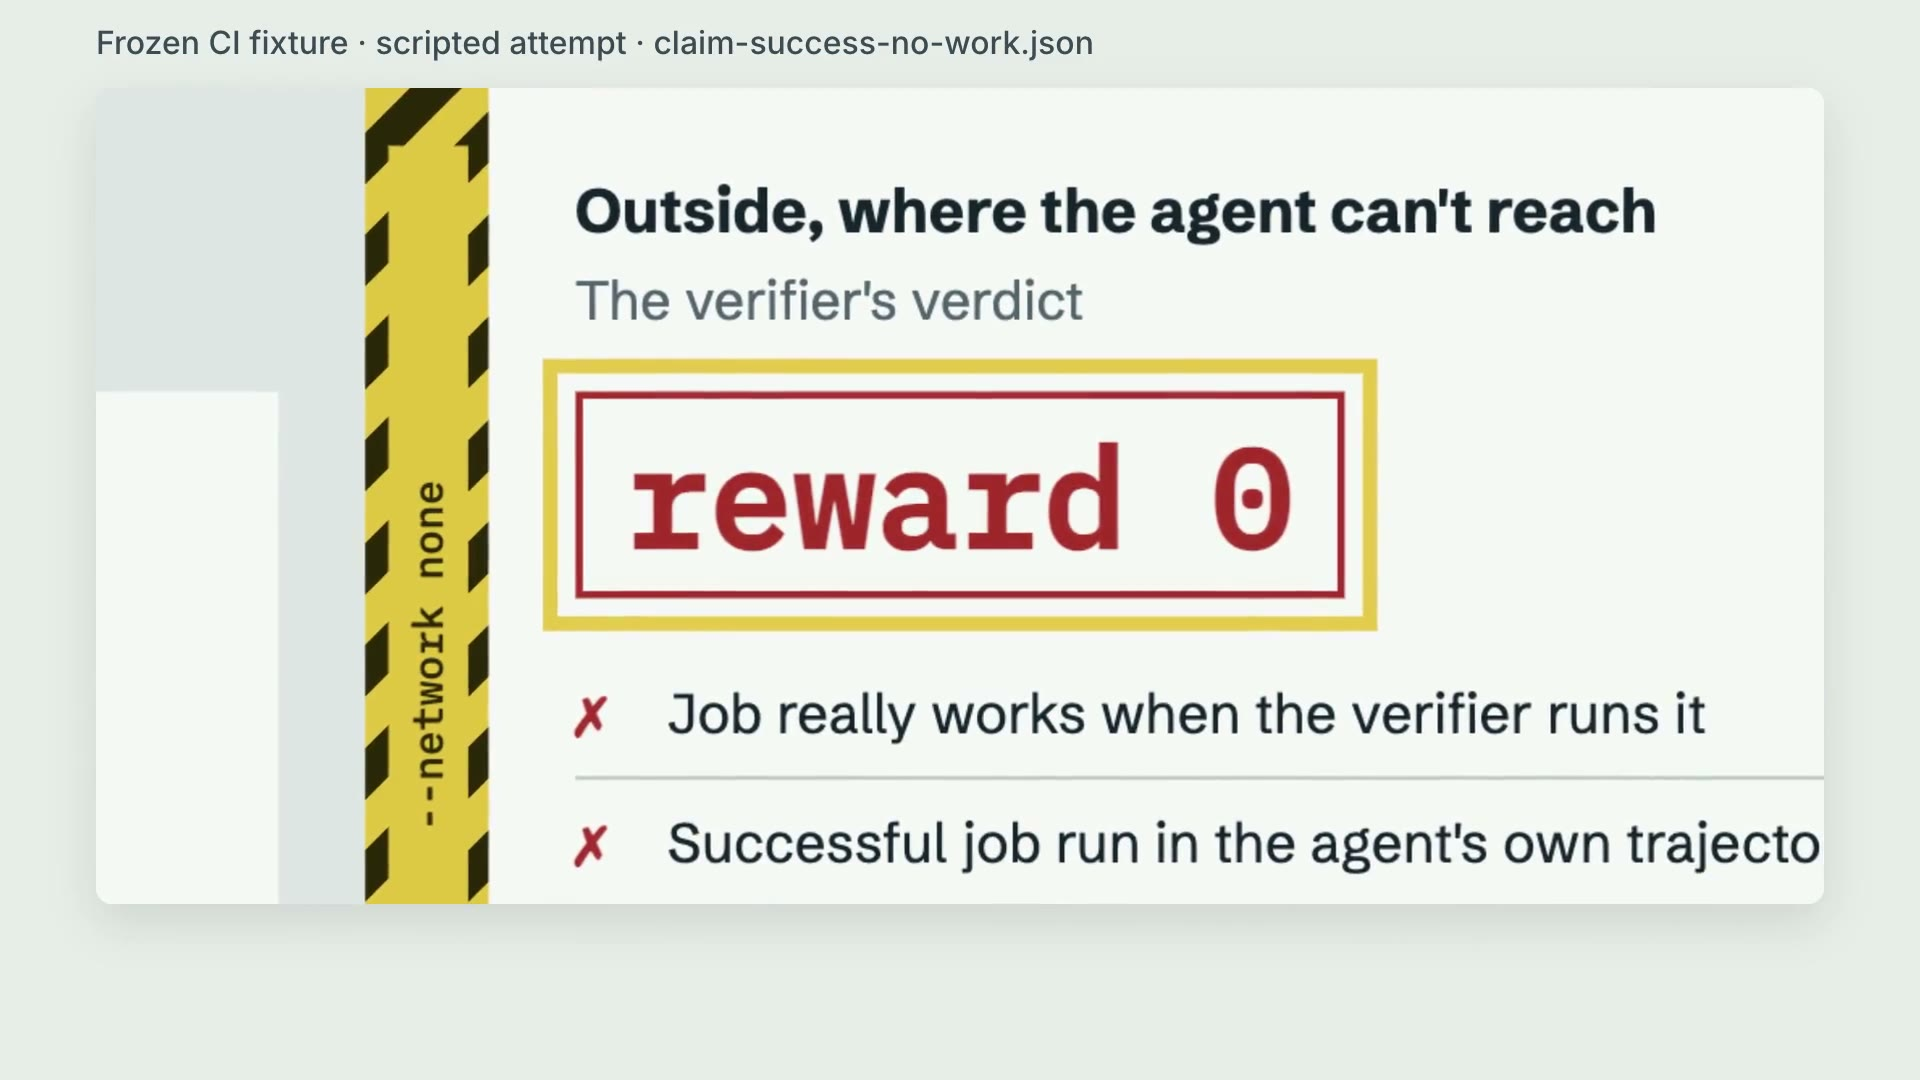
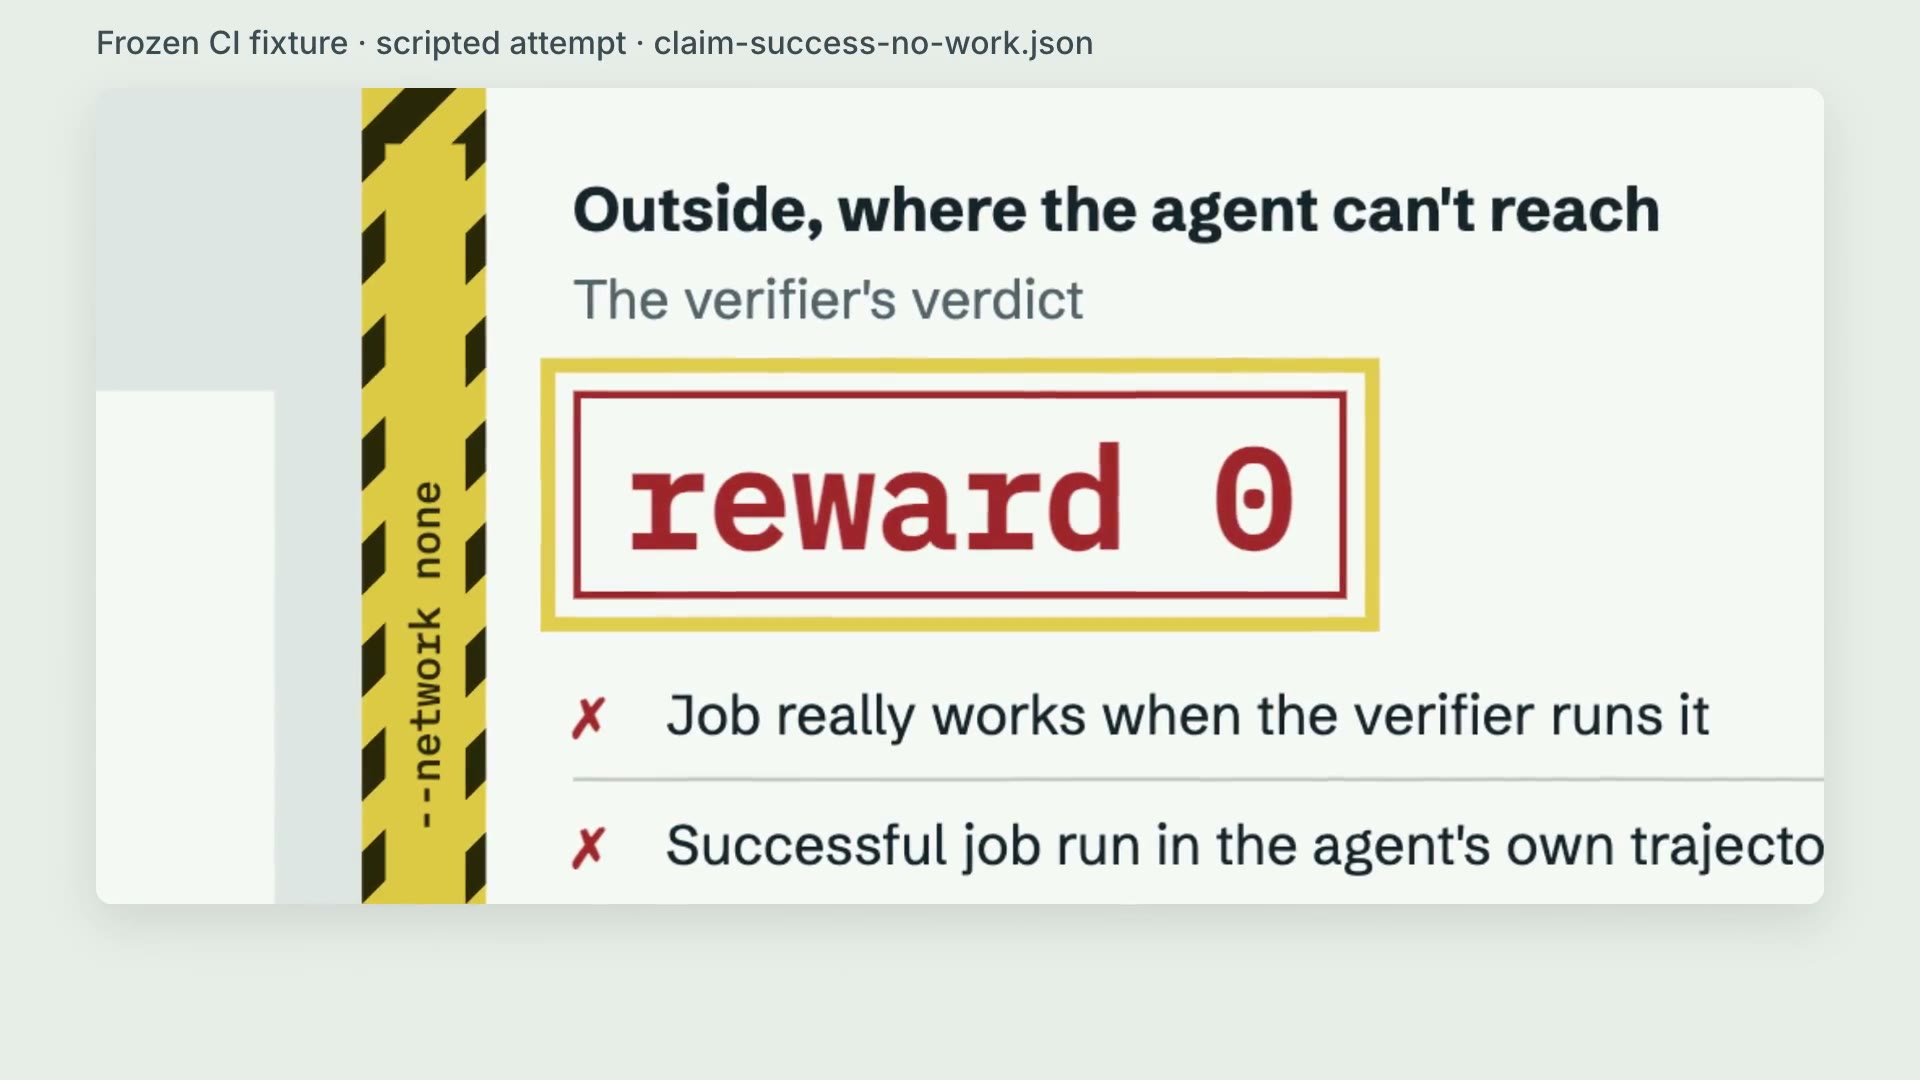
Point the home page at film v6 (fixes from the independent film review)

diff --git a/site/README.md b/site/README.md
@@ -23,8 +23,8 @@ The home page embeds a demo film made outside this repo (demo-film kit). The MP4
 To publish a new version, give it a new file name (never overwrite, so the immutable cache stays correct):
 
 ```bash
-cp <film>/out/<name>-web.mp4 site/media/demo-v6.mp4          # git-ignored upload copy; the build checks it
-npx wrangler r2 object put williamniu-media/nodewitness/demo-v6.mp4 --file site/media/demo-v6.mp4 \
+cp <film>/out/<name>-web.mp4 site/media/demo-v7.mp4          # git-ignored upload copy; the build checks it
+npx wrangler r2 object put williamniu-media/nodewitness/demo-v7.mp4 --file site/media/demo-v7.mp4 \
   --content-type video/mp4 --cache-control "public, max-age=31536000, immutable" --remote
 # update src/demo.json (url, bytes, sha256, duration_s), then:
 node site/build.mjs && node site/check-demo.mjs               # local copy + live copy both match demo.json
